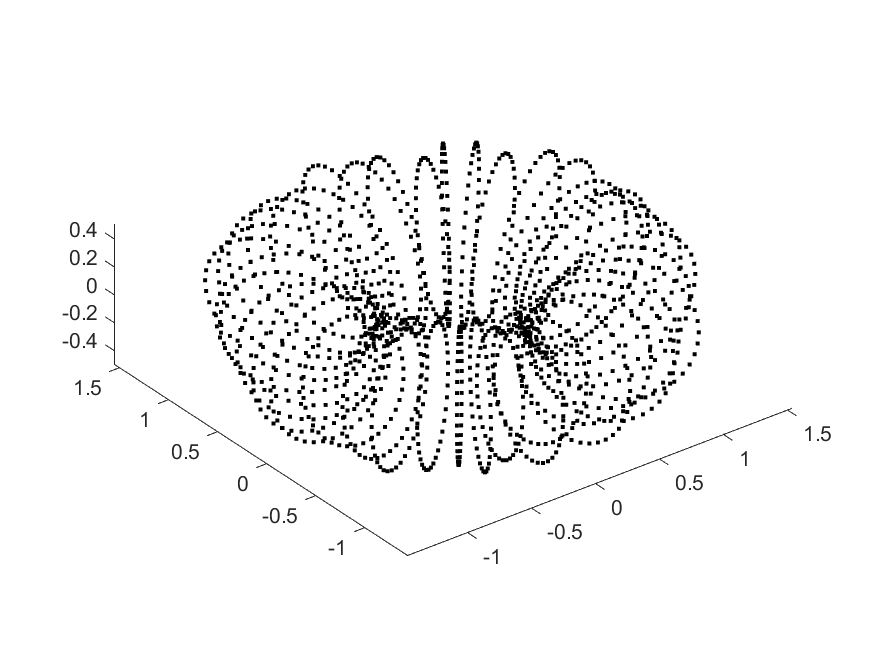
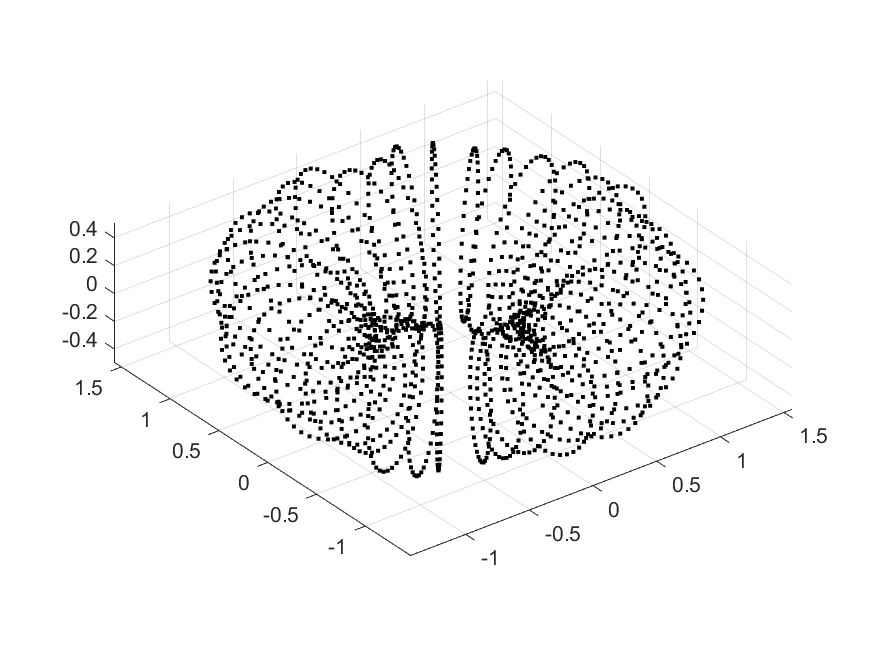
Worked on final assignments

diff --git a/Spring 2023/Rings II/hw2/problem1.tex b/Spring 2023/Rings II/hw2/problem1.tex
@@ -2,12 +2,25 @@ Prove that a module $_RQ$ is injective if and only if for every left ideal $I$ o
 $R$-homomorphism $f:I\to Q$ there is a homomorphsim $g:R\to Q$ with $g|_I=f$.\\\\
 
 \begin{solution}\renewcommand{\qedsymbol}{}\ \\
-    Let $_RQ$ be a module. Assume first that $_RQ$ is injective. Let $I\subset R$ be an ideal and let
+    
+    Let $_RQ$ be a module. Assume first that $_RQ$ is injective. Let $I\subseteq R$ be an ideal and let
     $f:I\to Q$ be an $R$-homomorphsim. Since $_RQ$ is injective, we have that for any two left
     $R$-modules $X,Y$ such that $\phi:X\to Y$ is an injective $R$-homomorphism, and $\psi:X\to Q$ is
     any $R$-homomorphism, then there exists and $R$-homomorphism $\rho:Y\to Q$ such that
-    $\psi=\phi\rho$.\\
+    $\psi=\phi\rho$. In particular, we can look at the left $R$-modules $_RR$ and $_RIQ$. So, let
+    $\phi:IQ\to R$ be an injective $R$-homomorphism, and $\psi:IQ\to Q$ be any $R$-homomorphism. Then,
+    there exists an $R$-homomorphism $\rho:R\to Q$. Clearly, based on the construction, we have that
+    $\rho|_I=f$ and since $I$ and $f$ were arbitrary, we have that the forward direction holds true.\\
 
     On the other hand, assume that for every left ideal $I\subseteq R$ and every $R$-homomorphism
-    $f:I\to Q$ there is a homomorphism $g:R\to Q$ such that $g|_I=f$.
+    $f:I\to Q$ there is a homomorphism $g:R\to Q$ such that $g|_I=f$ where $Q$ is a left $R$-module. Let
+    $N\subseteq M$ be left $R$-modules with $\gamma:N\to Q$ extending to $\gamma':M\to Q$. Using the
+    partial ordering of subset equality, we envoke Zorn's Lemma to say that there exists a maximal
+    element $\tilde{N}\subseteq M$ such that $\gamma$ extends to $\gamma':\tilde{N}\to Q$. If
+    $\tilde{N}=M$, we are done. If $\tilde{N}\neq M$, then consider $\tilde{n}\in M\setminus\tilde{N}$.
+    Further, consider the ideal $I$ of $R$ generated by $\tilde{n}$. Then, we have that $f:I\to Q$
+    extends to $g:R\to Q$ by assumption. Observe that if we define $\lambda:\tilde{N}+R\tilde{n}\to Q$
+    by $\lambda(n'+r\tilde{n})=\gamma'(n')+g(r)$, we contradict maximlaity. Therefore, $\tilde{N}=M$.
+    As such, $Q$ is injective as a left $R$-module as desired.
+ 
 \end{solution}

diff --git a/Spring 2023/Sci Comp II/Final/problem2.tex b/Spring 2023/Sci Comp II/Final/problem2.tex
@@ -20,7 +20,7 @@ fit approximation\\\\
     polynomial correction term. As such, we get that $\gamma_1=0.4085, \gamma_2=0.0051$, and
     $\gamma_3=-0.0009$ when using a perturbed elipse as our starting data.\\
 
-    b. For part b, we will look at a torus. Here, we find the point cloud to be:
+    b. For part b, we will look at a torus with some noise. Here, we find the point cloud to be:
 
     \begin{center}
         \includegraphics[scale=0.5]{problem2bcloud.PNG}
@@ -32,6 +32,22 @@ fit approximation\\\\
         \includegraphics[scale=0.7]{problem2bnorm.PNG}
     \end{center}
 
-    After that, we compute the interpolant as shwon in the code below.
+    After that, we compute the interpolant as shwon in the code below. We then get the resulting level
+    surface:
+
+    \begin{center}
+        \includegraphics[scale=0.5]{problem2blvl0.PNG}
+    \end{center}
+
+    Clearly, this is not the correct level surface. This is likely due to the behavior on the inner
+    radius of the torus with respect to the normal vectors. However, it still does have a sort of
+    oblong shape to it, almost creating a filled in torus or an ellipsoid.\\
+
+    c. TBD
 
 \end{solution}
+
+\newpage
+\lstinputlisting{problem2a.m}
+\newpage
+\lstinputlisting{problem2b.m}

diff --git a/Spring 2023/Sci Comp II/Final/problem2b.m b/Spring 2023/Sci Comp II/Final/problem2b.m
@@ -19,6 +19,7 @@ z = r.*sin(theta+0.5*rand(length(phi),1));
 
 plot3(x,y,z,'k.')
 axis equal
+grid on
 
 print('-dpng', 'problem2bcloud.png')
 
@@ -48,6 +49,7 @@ plot3(xzero(:,1:40),xzero(:,41:80),xzero(:,81:120),'ro')
 hold on
 plot3(xplus(:,1:40),xplus(:,41:80),xplus(:,81:120),'b*')
 plot3(xminus(:,1:40),xminus(:,41:80),xminus(:,81:120),'gd')
+grid on
 
 print('-dpng','problem2bnorm.png')
 
@@ -72,7 +74,7 @@ end
 
 C = A\RHS;
 
-[Xplot,Yplot,Zplot] = meshgrid(-1:0.1:1,-1:0.1:1,-1:0.1:1);
+[Xplot,Yplot,Zplot] = meshgrid(-2:0.2:2,-2:0.2:2,-2:0.2:2);
 
 Tplot = zeros(size(Xplot));
 Dist = zeros(M,1);
@@ -81,17 +83,19 @@ for j =1:size(Xplot,1)
     for k = 1:size(Yplot,1)
         for l = 1:size(Zplot,1)
 
-            Tplot(j,k,l) = FunctInterp([Xplot(j,k,l);Yplot(j,k,l);Zplot(j,k,l)],C,Xbig,rho);
+            Tplot(j,k,l) = FunctInterp([Xplot(j,k,l);Yplot(j,k,l);Zplot(j,k,l)],
+            C,Xbig,rho);
 
         end
     end
 end
 
-%surf(Xplot,Yplot,Zplot,Tplot)
-
-X=reshape(Tplot,[],3);
 figure
-plot3(X(:,1),X(:,2),X(:,3),'bo')
+isosurface(Xplot,Yplot,Zplot,Tplot,0)
+grid on
+
+print('-dpng','problem2blvl0.png')
+
 
 
 

diff --git a/Spring 2023/Sci Comp II/Final/problem2a.m b/Spring 2023/Sci Comp II/Final/problem2a.m
@@ -65,16 +65,7 @@ Apol = [A un Xbig; unt; xbt];
 C = Apol\RHS;
 C(end-2:end)
 
-% [Xplot,Yplot] = meshgrid(-4:0.1:4,-4:0.1:4);
-% 
-% Zplot = zeros(size(Xplot));
-% Dist = zeros(M,1);
-% 
-% for j = 1:size(Xplot,1)
-%     for k = 1:size(Yplot,1)
-%         Zplot(j,k) = FunctInterp([Xplot(j,k) Yplot(j,k)],C,Xbig,rho);
-%     end
-% end
+
 
 % Functions
 function out = bestfitnormal(data)
@@ -83,18 +74,5 @@ function out = bestfitnormal(data)
 
     Const = ones(M,1); % Vector of the constant term in the RHS
     out = data\Const; % Find the coefficients
-
-end
-
-function Fout = FunctInterp(Xin,C,Xbig,rho)
-
-    M = size(Xbig,1);
-    Dist = zeros(M,1);
-
-    for s = 1:M
-        Dist(s) = norm(Xin-Xbig(s,:));
-    end
-
-    Fout = C'.*rho(Dist);
 
 end

diff --git a/Spring 2023/Rings II/hw2/problem5.tex b/Spring 2023/Rings II/hw2/problem5.tex
@@ -3,5 +3,5 @@ $\text{Hom}_R(\_,\text{Hom}_S(U,N)):RMod\to \mathbb{Z}Mod$. Let $G$ denote the f
 $\text{Hom}_S(U\otimes_R\_,N):RMod\to \mathbb{Z}Mod$. Prove that $F$ is naturally isomorphic to $G$.\\\\
 
 \begin{solution}\renewcommand{\qedsymbol}{}\ \\
-    Let $_SU_R$, $F$, and $G$ be as stated above.
+    Let $_SU_R, _SN, F$, and $G$ be as stated above.
 \end{solution}
